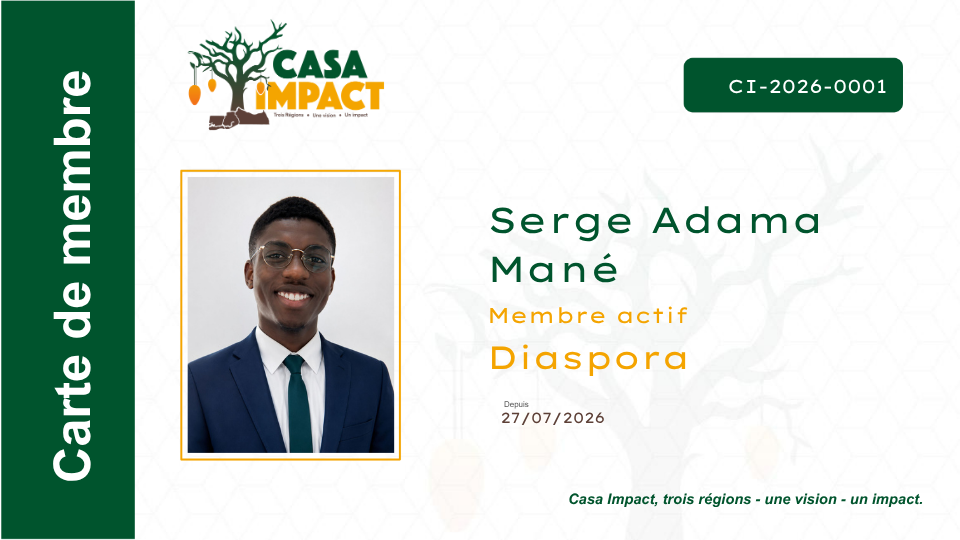
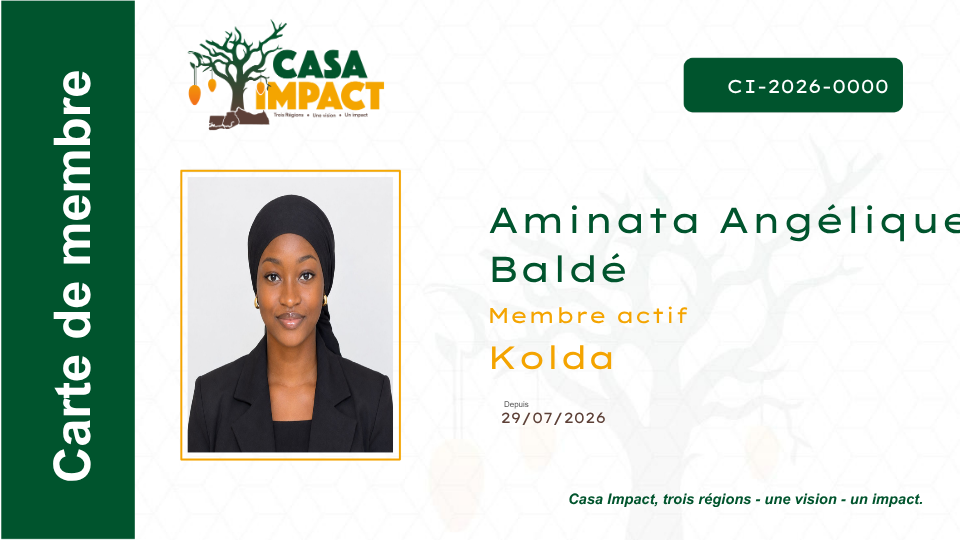
ajustement du bouton ajout de membre

diff --git a/app/admin/(protected)/adhesions/page.tsx b/app/admin/(protected)/adhesions/page.tsx
@@ -103,7 +103,15 @@ export default function AdminAdhesionsPage() {
   return (
     <div className="space-y-6 animate-in fade-in-50 duration-300">
       {/* 1. Page Header */}
-      <div className="flex flex-col gap-4 sm:flex-row sm:items-center sm:justify-between border-b border-border/80 pb-5">
+      {/* flex-wrap + lg:flex-row (accord du 2026-09-16 : le bloc de 4
+          boutons — rappel/import/export PDF/ajouter — débordait hors
+          écran en sm:flex-row, la ligne ne repassant jamais à la ligne
+          suivante faute de largeur disponible pour le bloc). Le bloc
+          d'actions passe désormais SOUS le titre tant que l'écran n'est
+          pas assez large (lg, ≥1024px), et peut encore se scinder sur
+          plusieurs lignes lui-même si besoin (flex-wrap sur les deux
+          niveaux) plutôt que de provoquer un scroll horizontal de page. */}
+      <div className="flex flex-col gap-4 lg:flex-row lg:items-center lg:justify-between flex-wrap border-b border-border/80 pb-5">
         <div>
           <div className="inline-flex items-center gap-1.5 rounded-full bg-forest/10 px-3 py-0.5 text-xs font-semibold text-forest">
             <CreditCard className="size-3.5" />
@@ -117,7 +125,7 @@ export default function AdminAdhesionsPage() {
           </p>
         </div>
 
-        <div className="flex flex-wrap items-center gap-2.5 shrink-0 self-start sm:self-auto">
+        <div className="flex flex-wrap items-center gap-2.5 w-full lg:w-auto">
           {counts.enAttente > 0 && (
             <Button
               onClick={() => setIsReminderConfirmOpen(true)}

diff --git a/lib/data/team.ts b/lib/data/team.ts
@@ -166,10 +166,12 @@ export const teamMembers: TeamMember[] = [
     id: 'kadialy-sane',
     nom: 'Kadialy Sané',
     fonction: 'Responsable Commission scientifique',
+    pole: 'commission scientifique',
     categorie: 'commission_scientifique',
     image: '/assets/team/kadialy-sane.jpeg',
     ordre: 1,
   },
+
     {
     id: 'ndeye-sire-sagna',
     nom: 'Ndeye Sire Sagna',
